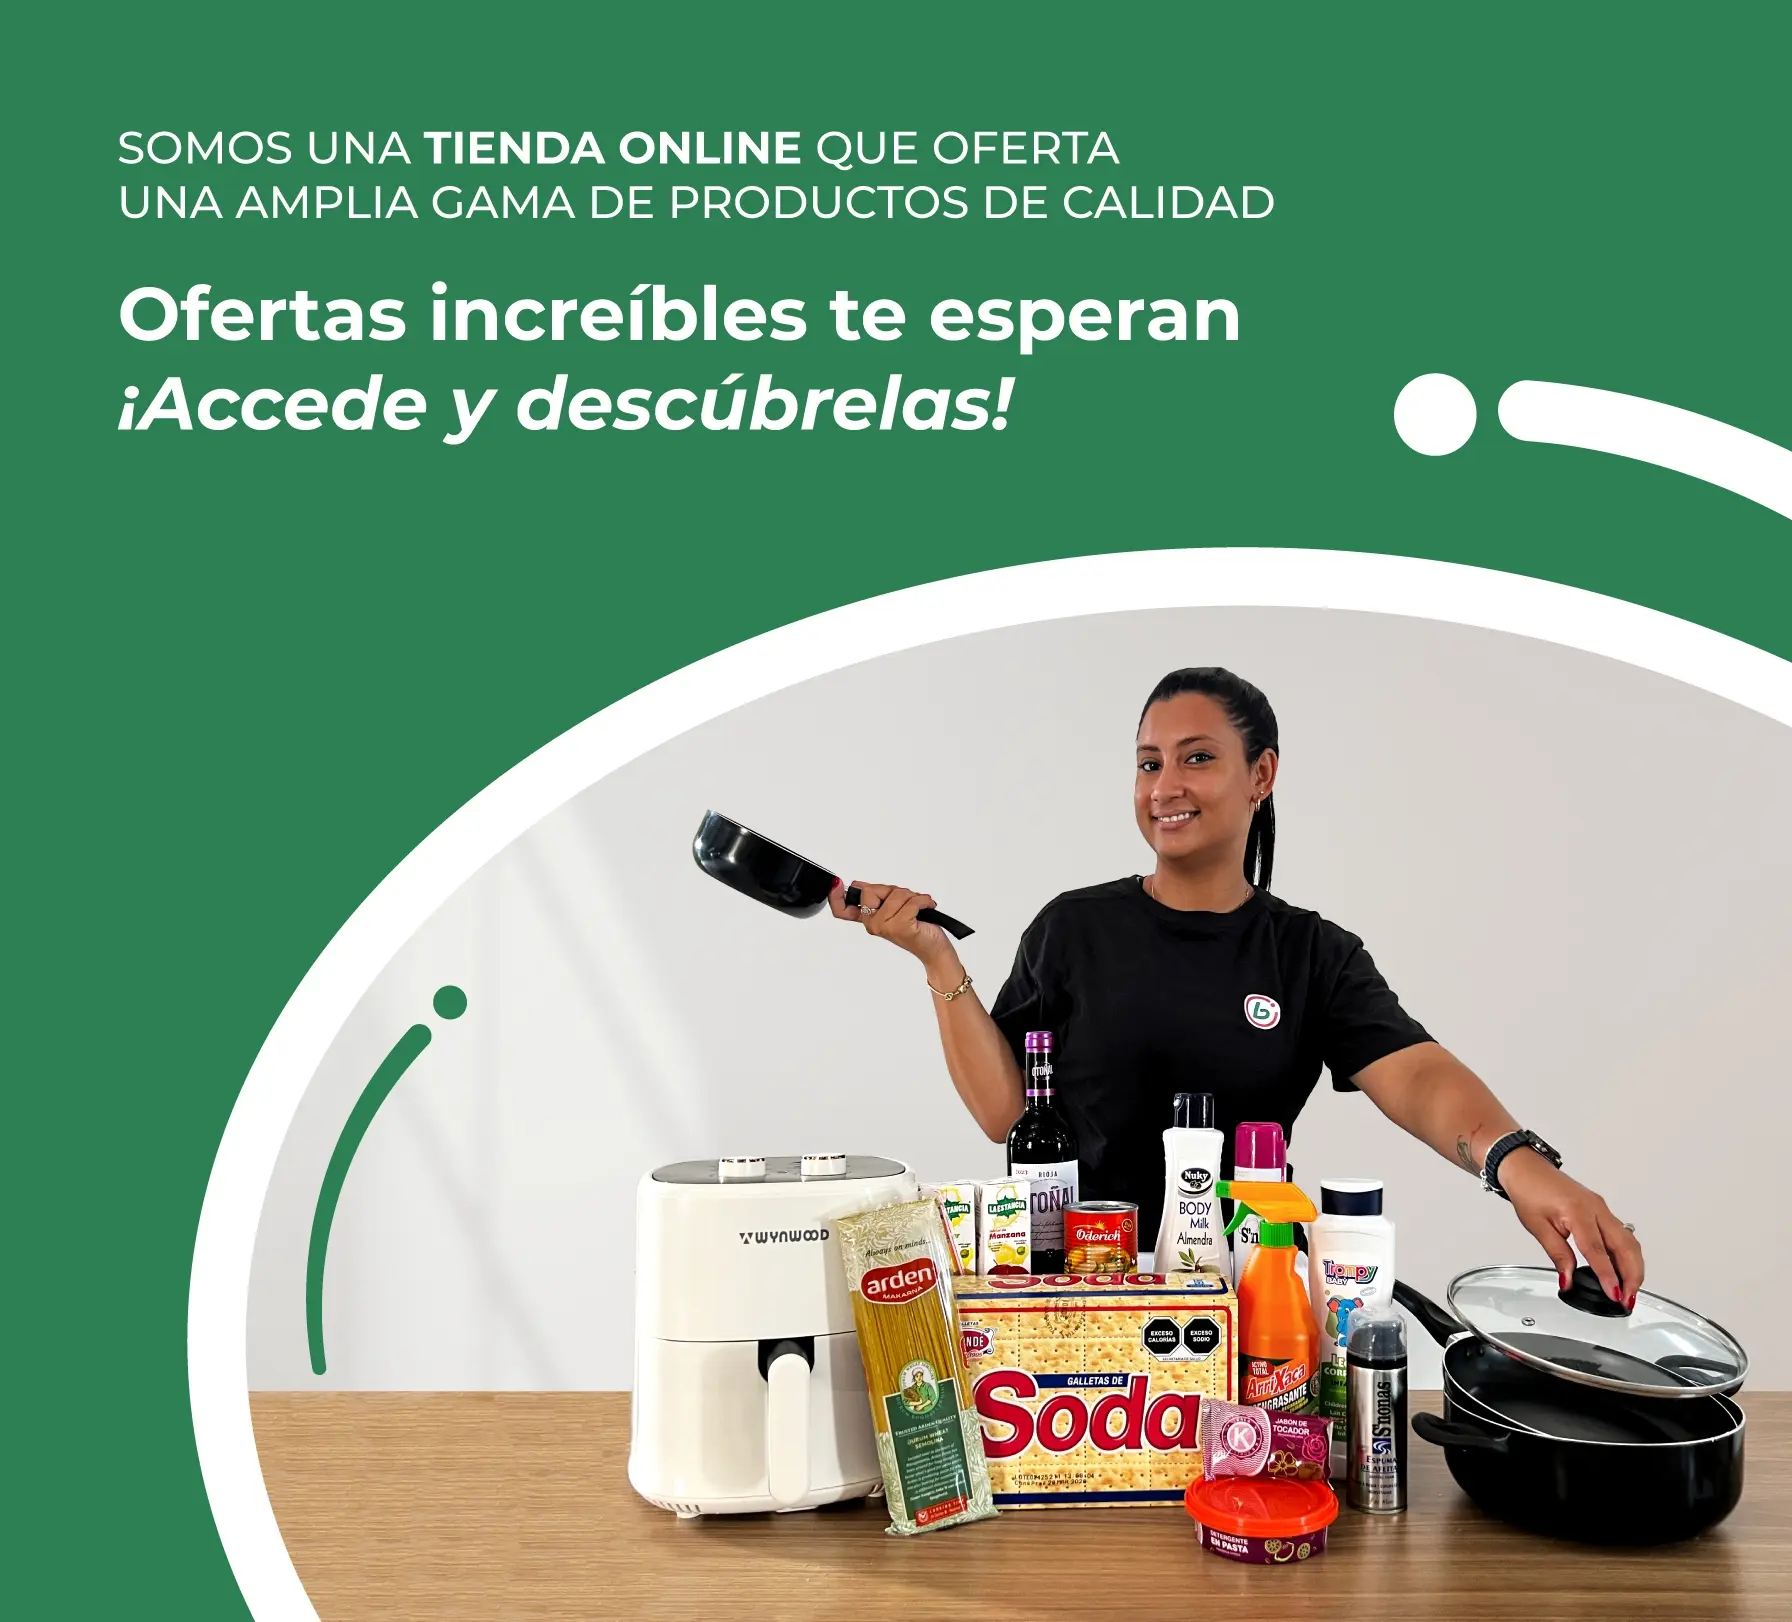
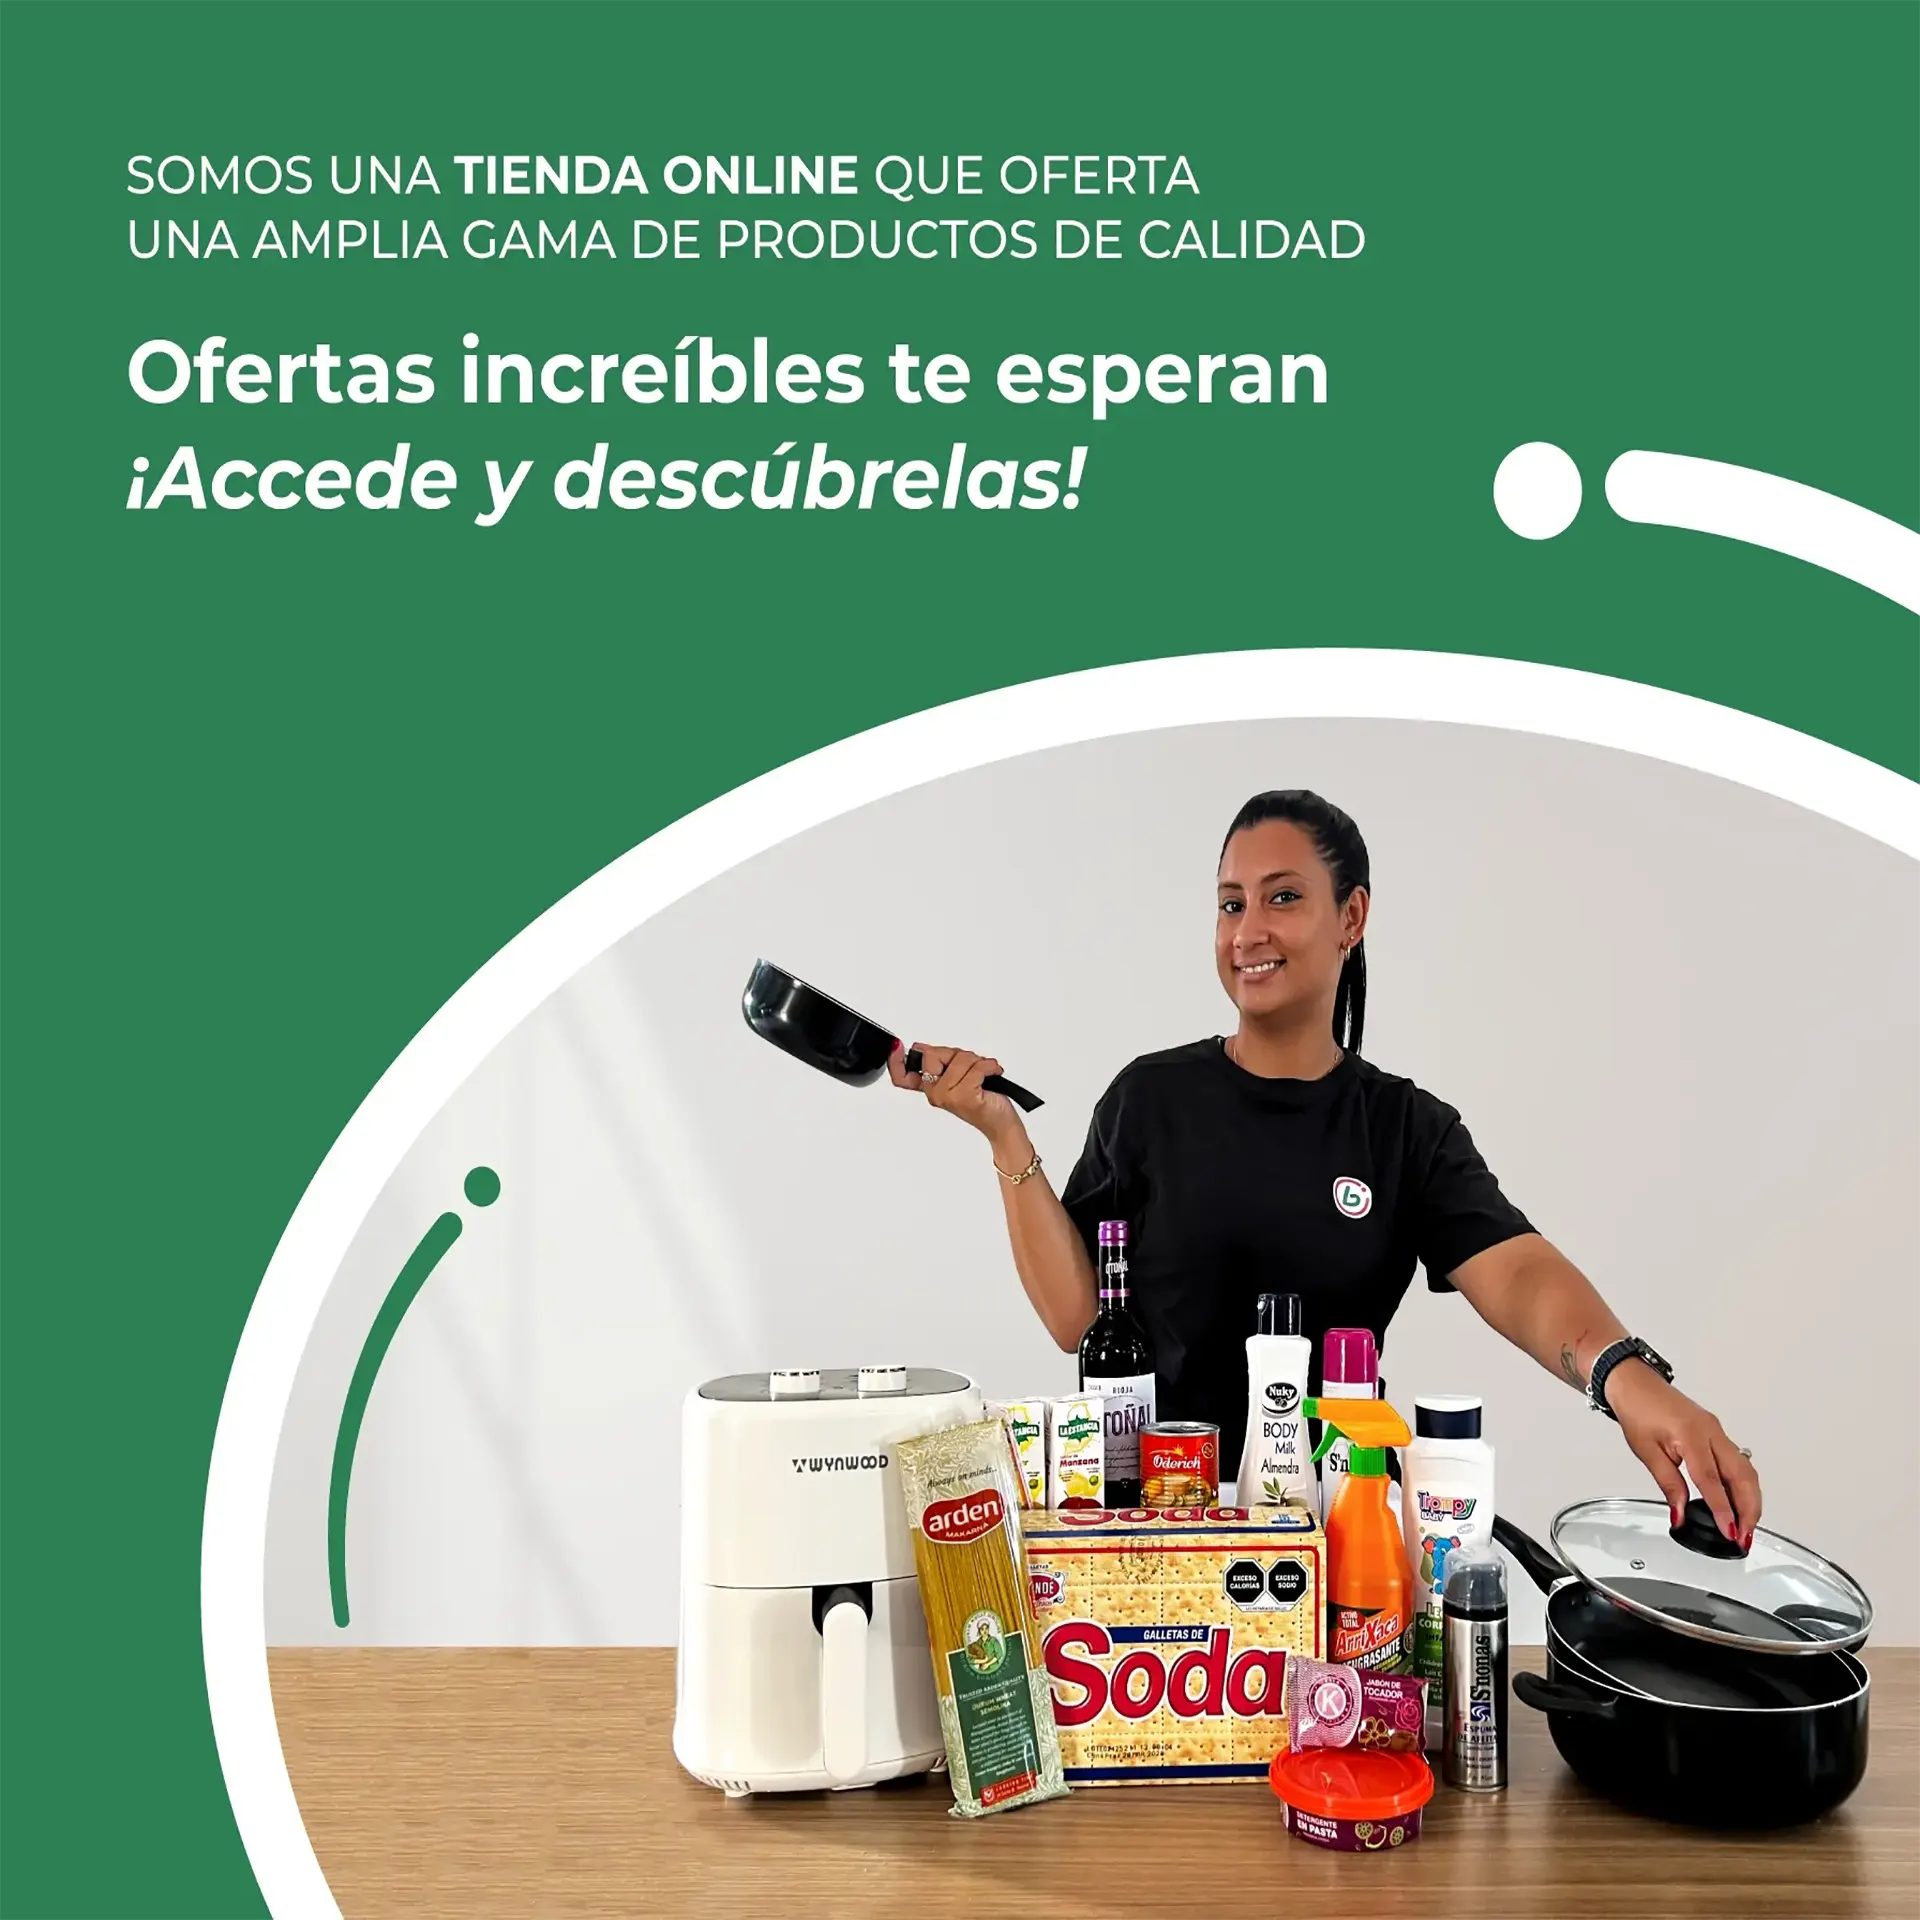
Cambios antes del rebase

diff --git a/src/app/[lang]/home/components/HomeCarousel.tsx b/src/app/[lang]/home/components/HomeCarousel.tsx
@@ -37,7 +37,7 @@ const HomeCarousel: React.FC = () => {
 
   const breakpoint = 768;
   const currentImages = useMemo(() => {
-    return width <= breakpoint ? carouselImagesMobile : carouselImagesDesktop;
+    return width < breakpoint ? carouselImagesMobile : carouselImagesDesktop;
   }, [width]);
 
   const handlePrev = () => carouselRef.current?.prev();
@@ -45,61 +45,78 @@ const HomeCarousel: React.FC = () => {
 
   return (
     <div className="relative w-full">
-      <div className="relative w-full overflow-hidden">
-        <AntCarousel
-          ref={carouselRef}
-          autoplay
-          dots={false}
-          arrows={false}
-          effect="scrollx"
-          className="w-full"
-        >
-          {currentImages.map((image, index) => (
-            <div
-              key={index}
-              className="relative w-full aspect-video sm:aspect-16/8 md:aspect-4/3 lg:aspect-video 2xl:aspect-16/7"
-            >
-              <Image
-                src={image}
-                alt={`Imagen ${index + 1}`}
-                fill
-                priority={index === 0}
-                sizes="100vw"
-                className="object-cover object-center"
-              />
-            </div>
-          ))}
-        </AntCarousel>
-
-        <div className="absolute inset-0 flex items-center justify-between px-4 pointer-events-none">
-          <button
-            onClick={handlePrev}
-            className="pointer-events-auto
-              bg-green-800 text-white
-              w-8 h-8 sm:w-10 sm:h-10 lg:w-12 lg:h-12 xl:w-13 xl:h-13 2xl:w-15 2xl:h-15 3xl:w-20 3xl:h-20
-              rounded-full flex items-center justify-center
-              hover:bg-black/70 hover:scale-110 transition-all duration-200
-              focus:outline-none focus:ring-0 border-none shadow-lg"
+     <div className="relative w-full overflow-hidden">
+       <div
+      className="relative w-full h-auto mb-2 sm:mb-4"      
+    >
+      <AntCarousel
+        ref={carouselRef}
+        autoplay
+        dots={false}
+        arrows={false}
+        effect="scrollx"
+        className="w-full"
+      >
+        {currentImages.map((image, index) => (
+          <div
+            key={index}
+            className={`relative w-full ${
+              width < 320
+                ? "h-[280px]"
+                : width < 375
+                ? "h-80"
+                : width < 425
+                ? "h-[360px]"
+                : width < breakpoint
+                ? "h-[420px]"
+                : "aspect-32/10"
+            }`}
           >
-            <LeftOutlined className="text-[14px] sm:text-2xl lg:text-3xl xl:text-4xl 2xl:text-5xl 3xl:text-6xl" />
-          </button>
+            <Image
+              src={image}
+              alt={`Imagen ${index + 1}`}
+              fill
+              priority={index === 0}
+              className={`${
+                width < breakpoint ? "object-contain" : "object-cover"
+              } object-center`}
+            />
+          </div>
+        ))}
+      </AntCarousel>
 
-          {/* Flecha derecha */}
-          <button
-            onClick={handleNext}
-            className="pointer-events-auto
-              bg-green-800 text-white
-              w-8 h-8 sm:w-10 sm:h-10 lg:w-12 lg:h-12 xl:w-13 xl:h-13 2xl:w-15 2xl:h-15 3xl:w-20 3xl:h-20
-              rounded-full flex items-center justify-center
-              hover:bg-black/70 hover:scale-110 transition-all duration-200
-              focus:outline-none focus:ring-0 border-none shadow-lg"
-          >
-            <RightOutlined className="text-[14px] sm:text-2xl lg:text-3xl xl:text-4xl 2xl:text-5xl 3xl:text-6xl" />
-          </button>
-        </div>
-      </div>
+      {/* Botón izquierda */}
+      <button
+        onClick={handlePrev}
+        className={`absolute top-1/2 transform -translate-y-1/2 z-10 bg-green-800 text-white rounded-full flex items-center justify-center hover:bg-black/70 hover:scale-110 transition-all duration-200 focus:outline-none border-none shadow-lg ${
+          width < breakpoint ? "left-4 w-9 h-9" : "left-4 w-10 h-10 sm:w-12 sm:h-12 lg:w-14 lg:h-14"
+        }`}
+      >
+        <LeftOutlined
+          className={`${
+            width < breakpoint ? "text-[18px]" : "text-[14px] sm:text-2xl lg:text-3xl xl:text-4xl"
+          }`}
+        />
+      </button>
+
+      {/* Botón derecha */}
+      <button
+        onClick={handleNext}
+        className={`absolute top-1/2 transform -translate-y-1/2 z-10 bg-green-800 text-white rounded-full flex items-center justify-center hover:bg-black/70 hover:scale-110 transition-all duration-200 focus:outline-none border-none shadow-lg ${
+          width < breakpoint ? "right-4 w-9 h-9" : "right-4 w-10 h-10 sm:w-12 sm:h-12 lg:w-14 lg:h-14"
+        }`}
+      >
+        <RightOutlined
+          className={`${
+            width < breakpoint ? "text-[18px]" : "text-[14px] sm:text-2xl lg:text-3xl xl:text-4xl"
+          }`}
+        />
+      </button>
     </div>
+     </div>
+     </div>
   );
 };
 
 export default HomeCarousel;
+

diff --git a/src/common/PromotionalBanner.tsx b/src/common/PromotionalBanner.tsx
@@ -3,26 +3,28 @@
 import Image from "next/image";
 import Link from "next/link";
 
-export default function PromocionalBanner() {
+export default function PromotionalBanner() {
   return (
-    <section className="w-full bg-gray-50 py-12">
-      <div className="container mx-auto flex flex-col-reverse justify-start lg:flex-row lg:items-center lg:justify-center gap-8 px-6">
-       
-       <div className="relative w-[250px] h-[250px] xs:w-[300px] xs:h-[300px] sm:w-[460px] sm:h-[460px] md:w-[465px] md:h-[465px]">
-            <Image
-                src="/assets/images/banner/bn1_image.webp"
-                alt="Imagen del banner"
-                fill
-                className="rounded-lg object-cover"
-            />
-            </div>
-       
-        <div className="flex-1 flex flex-col items-start text-center md:text-left">
+    <section className="w-full bg-transparent py-4 mt-3">
+      <div className="container mx-auto flex flex-col-reverse lg:flex-row lg:items-center gap-5 px-5">
+
+        {/* Imagen */}
+        <div className="w-full lg:w-1/2 relative rounded-lg overflow-hidden aspect-[1.2] lg:aspect-[1.1]">
+          <Image
+            src="/assets/images/banner/bn1_image.webp"
+            alt="Imagen del banner"
+            fill
+            className="object-contain object-center" 
+          />
+        </div>
+
+        {/* Texto */}
+        <div className="flex-1 flex flex-col items-start text-center h-auto md:text-left lg:w-1/2">
           <p className="text-3xl md:text-4xl lg:text-6xl font-bold mb-4">
-           <span className ="text-[#222]" > ¿Qué hacemos </span>
-           <span className ="text-[#2c8254]"> en BrincoXpress?</span>
+            <span className="text-[#222]"> ¿Qué hacemos </span>
+            <span className="text-[#2c8254]"> en BrincoXpress?</span>
           </p>
-          <p className="text-gray-700 mb-6 text-justify lg:text-[14px]" >
+          <p className="text-gray-700 mb-4 text-justify lg:text-[14px]">
             Somos una tienda de ventas online que oferta una amplia gama de productos de calidad 
             desde alimentos básicos, productos de aseo y limpieza, electrodomésticos,
             herramientas de ferretería, hasta materiales de la construcción.
@@ -34,13 +36,13 @@ export default function PromocionalBanner() {
             cómoda y segura hasta la puerta de su casa.
           </p>
 
-         
           <div>
-            <button className="bg-[#2c8254] h-auto w-[150px]  hover:bg-olive-700 text-white text-xl lg:text-2xl lg:w-[170px] py-2 px-6 rounded-full transition-all duration-200">
+            <button className="bg-[#2c8254] h-auto w-[150px] hover:bg-olive-700 text-white text-xl lg:text-2xl lg:w-[170px] py-2 px-6 rounded-full transition-all duration-200">
               <Link className="text-white!" href={"#"}>Ver más</Link>
             </button>
           </div>
         </div>
+
       </div>
     </section>
   );

diff --git a/src/common/PromotionalPayBanner.tsx b/src/common/PromotionalPayBanner.tsx
@@ -1,0 +1,40 @@
+"use client";
+
+import Image from "next/image";
+import Link from "next/link";
+
+export default function PromotionalPayBanner() {
+  return (
+    <section className="w-full bg-transparent py-4 mt-3">
+      <div className="container mx-auto flex flex-col lg:flex-row lg:items-center gap-2 px-5">
+
+        <div className="flex-1 flex flex-col items-start text-center md:text-left lg:w-1/2">
+          <p className="text-3xl md:text-4xl lg:text-6xl font-bold mb-4">
+            <span className="text-[#222]"> ¿Cómo pagar en </span>
+            <span className="text-[#2c8254]">BrincoXpress?</span>
+          </p>
+          <p className="text-gray-700 mb-4 text-justify lg:text-[14px]">
+            Para realizar el pago en BrincoXpress, completa los campos requeridos en el checkout y confirme su pago, utilizando su método de pago preferido.
+          </p>
+
+          <div>
+            <button className="bg-[#2c8254] h-auto w-[150px] hover:bg-olive-700 text-white text-xl lg:text-2xl lg:w-[170px] py-2 px-6 rounded-full transition-all duration-200">
+              <Link className="text-white!" href={"#"}>Ver más</Link>
+            </button>
+          </div>
+        </div>
+
+        <div className="w-full lg:w-1/2 flex justify-center">
+          <Image
+            src="/assets/images/banner/bn2_pay_image.webp"
+            alt="Imagen del banner"
+            width={1920} // mitad del ancho original
+            height={2221} // mantiene proporción
+            className="w-full h-auto rounded-lg"
+          />
+        </div>
+
+      </div>
+    </section>
+  );
+}

diff --git a/src/app/[lang]/home/page.tsx b/src/app/[lang]/home/page.tsx
@@ -3,9 +3,10 @@ import { getDictionary } from "../dictionaries";
 import { getProducts } from "@/lib/products";
 import { ProductsPaginatedResponse } from "@/models/products";
 import ProductsList from "./components/ProductsList";
-import PromocionalBanner from "@/common/PromocionalBanner";
 import Link from "next/link";
 import HomeCarousel from "./components/HomeCarousel";
+import PromotionalBanner from "@/common/PromotionalBanner";
+import PromotionalPayBanner from "@/common/PromotionalPayBanner";
 
 interface PageProps {
   params: Promise<{ lang: Locale["locale"] }>;
@@ -21,7 +22,7 @@ export default async function Page({ params }: Readonly<PageProps>) {
   });
  
   if (products.status == "success") {
-     console.log(products);
+  
     return (
       
        
@@ -33,7 +34,9 @@ export default async function Page({ params }: Readonly<PageProps>) {
          {products.results && (
           <ProductsList lang={lang} products={products.results} />
         )}
-        <PromocionalBanner/>
+        <PromotionalBanner/>
+
+        <PromotionalPayBanner/>
 
        </div>
      
@@ -44,11 +47,13 @@ export default async function Page({ params }: Readonly<PageProps>) {
     );
   } else {
     return (
-           
        <div className="h-screen">
+        <HomeCarousel/>
+
         Hubo un error al cargar los productos{" "}
        <Link href={`/${lang}/home`}>Recargar</Link>
-        <PromocionalBanner/>
+        <PromotionalBanner/>
+        <PromotionalPayBanner/>
        </div>
          
     );
